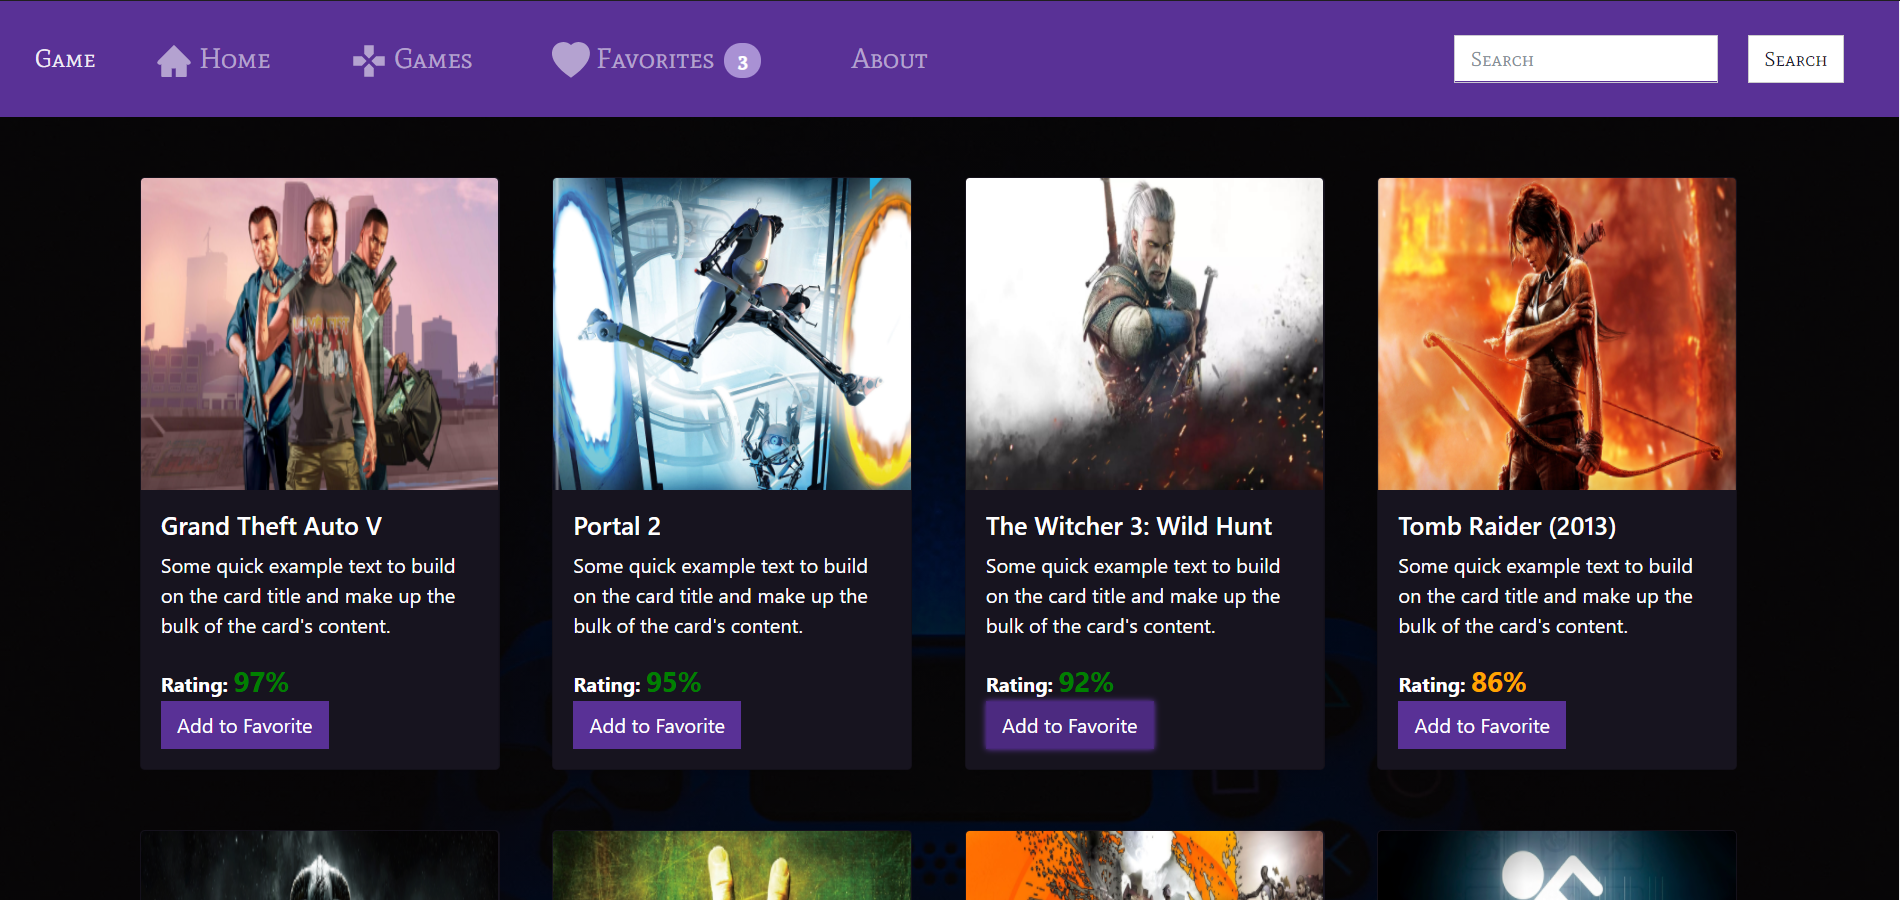
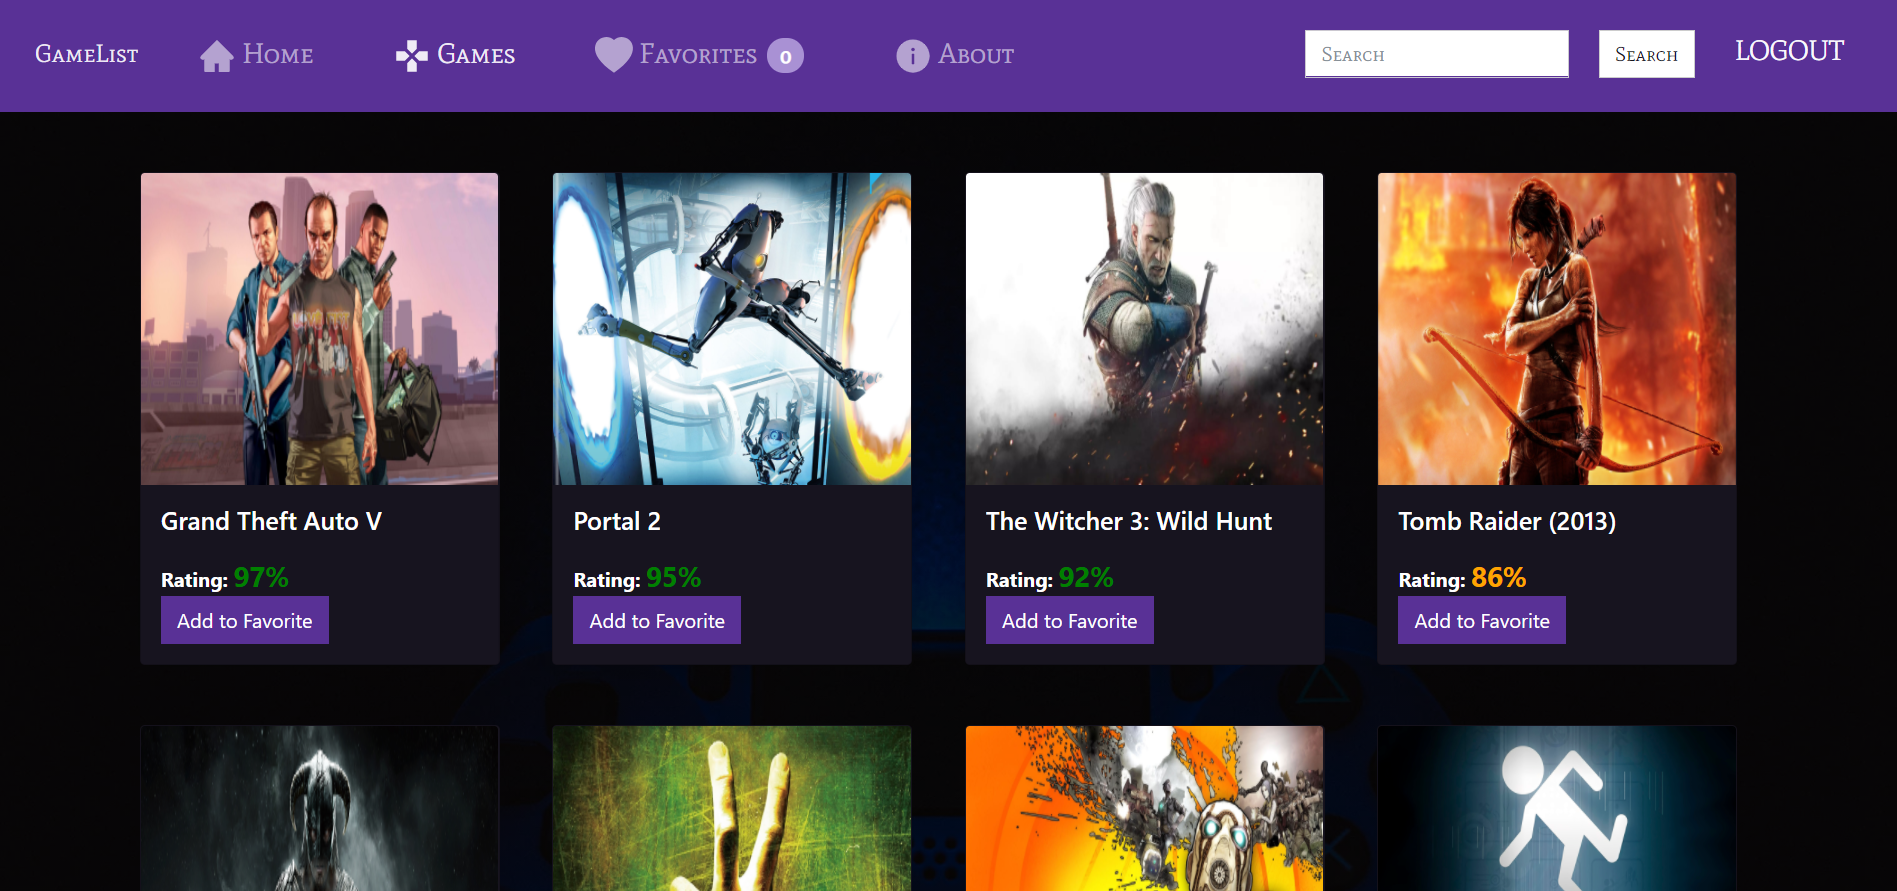
Fix Favs navbar + refactorintg + README

diff --git a/gamelist-func/src/components/About.jsx b/gamelist-func/src/components/About.jsx
@@ -1,19 +1,40 @@
-import React from 'react'
+import React from "react";
 
 export default function About() {
-    return (
-        <div className="container" >
-            <h1 className="display-4 text-center mt-sm-2" style={{ fontFamily: "Mate SC, serif", fontSize: "72px" }}>About Us</h1>
-            <div className="container"> 
-            <p>Lorem ipsum dolor sit amet consectetur adipisicing elit. Eos, atque! Similique molestiae iste blanditiis, sequi atque corrupti numquam aperiam consequatur ratione ipsam adipisci officiis facilis cupiditate mollitia? Vero, earum totam? Lorem ipsum dolor sit amet consectetur, adipisicing elit. Unde eligendi soluta laudantium architecto nisi sed, explicabo officiis cumque illum porro perferendis neque laborum qui nesciunt at dolor suscipit fugiat tempora? Lorem ipsum dolor sit amet consectetur adipisicing elit. Pariatur, tempora quis! Architecto, cumque sit, est deleniti reprehenderit commodi soluta voluptates corrupti ipsum incidunt ipsa alias quidem ipsam fuga. Magni, sequi.
+  return (
+    <div className="container">
+      <h1
+        className="display-4 text-center mt-sm-2"
+        style={{ fontFamily: "Mate SC, serif", fontSize: "72px" }}
+      >
+        About Us
+      </h1>
+      <div className="container">
+        <p>
+          Lorem ipsum dolor sit amet consectetur adipisicing elit. Eos, atque!
+          Similique molestiae iste blanditiis, sequi atque corrupti numquam
+          aperiam consequatur ratione ipsam adipisci officiis facilis cupiditate
+          mollitia? Vero, earum totam? Lorem ipsum dolor sit amet consectetur,
+          adipisicing elit. Unde eligendi soluta laudantium architecto nisi sed,
+          explicabo officiis cumque illum porro perferendis neque laborum qui
+          nesciunt at dolor suscipit fugiat tempora? Lorem ipsum dolor sit amet
+          consectetur adipisicing elit. Pariatur, tempora quis! Architecto,
+          cumque sit, est deleniti reprehenderit commodi soluta voluptates
+          corrupti ipsum incidunt ipsa alias quidem ipsam fuga. Magni, sequi.
+          <br /> <br />
+          Lorem ipsum dolor sit amet consectetur adipisicing elit. Aliquam,
+          dignissimos adipisci? Ullam enim illo tempore quae ad, itaque
+          praesentium, laboriosam sit non officia cumque blanditiis provident
+          molestias vero voluptates ipsa?
+        </p>
 
-                <br /> <br />
-                Lorem ipsum dolor sit amet consectetur adipisicing elit. Aliquam, dignissimos adipisci? Ullam enim illo tempore quae ad, itaque praesentium, laboriosam sit non officia cumque blanditiis provident molestias vero voluptates ipsa?
-            </p>
-
-            <h3><b> CONTACT US: <a href="#">GameList@example.com</a> </b></h3>
-
-            </div>
-        </div>
-    )
+        <h3>
+          <b>
+            {" "}
+            CONTACT US: <a href="#">GameList@example.com</a>{" "}
+          </b>
+        </h3>
+      </div>
+    </div>
+  );
 }

diff --git a/gamelist-func/src/App.js b/gamelist-func/src/App.js
@@ -14,6 +14,8 @@ import { AiFillInfoCircle } from "react-icons/ai";
 import About from "./components/About";
 import FacebookLogin from "react-facebook-login";
 
+
+// APP -> ALLGAMES -> GAMES
 function App() {
   // let games = [
   //   { gameName: "gta", id: 1 },
@@ -29,7 +31,7 @@ function App() {
   const [email, setEmail] = useState("");
 
   const addToFav = (game) => {
-    console.log(game);
+    console.log("zzzzzzzz", game);
     var search = fav.find((e) => game.id == e.id);
     if (search) {
       alert("ALREADY THERE!");
@@ -38,15 +40,11 @@ function App() {
     }
   };
 
-
   const setInfo = (n, t, e) => {
-    console.log('OOOOOOOOO', n);
     setName(n);
     setToken(t);
     setEmail(e);
-  }
-
-
+  };
 
   const removeAll = () => {
     setFav([]);
@@ -105,9 +103,8 @@ function App() {
                       <AiFillInfoCircle size={30} /> About
                     </Link>
                   </li>
-                  
                 </ul>
-                
+
                 <form class="d-flex">
                   <input
                     class="form-control me-sm-2 m-2"
@@ -125,20 +122,22 @@ function App() {
                     </button>
                   </Link>
 
-                    {token? <Link className="nav-link text-light" to="/logout">
-                       LOGOUT
-                    </Link> : null}
-
-
-
-
+                  {token ? (
+                    <Link className="nav-link text-light" to="/logout">
+                      LOGOUT
+                    </Link>
+                  ) : null}
                 </form>
               </div>
             </div>
           </nav>
 
           <Switch>
-            <Route exact path="/" render={() => <HomePage setInfo={setInfo} />} />
+            <Route
+              exact
+              path="/"
+              render={() => <HomePage setInfo={setInfo} />}
+            />
 
             <Route
               exact
@@ -163,7 +162,7 @@ function App() {
               render={() => <Search target={searchInput} addToFav={addToFav} />}
             />
 
-<Route
+            <Route
               path="/logout"
               render={() => <HomePage setInfo={setInfo} />}
             />

diff --git a/gamelist-func/src/components/HomePage.jsx b/gamelist-func/src/components/HomePage.jsx
@@ -7,7 +7,6 @@ export default function HomePage(props) {
   const [token, setToken] = useState("");
   const [email, setEmail] = useState("");
 
-  
   const responseFacebook = (response) => {
     if (localStorage.getItem("token")) {
       setName(response.name);
@@ -19,37 +18,29 @@ export default function HomePage(props) {
   };
 
   useEffect(() => {
-    props.setInfo(name, token, email) 
+    props.setInfo(name, token, email);
     return () => {
       // cleanup
-    }
-  }, [name, token, email])
-
-  
-
-
+    };
+  }, [name, token, email]);
 
   return (
     <div className="container">
-      {token ? <h1 className="display-4">Welcome, {name}</h1> : 
-      <center className="my-3">
-<FacebookLogin
-appId="1947245272097728"
-autoLoad={false}
-fields="name,email,picture"
-callback={responseFacebook}
-textButton="Login"
-icon="fa-facebook"
-width="10px"
-/>
-
-
-</center>}
-
-
-
-
-
+      {token ? (
+        <h1 className="display-4">Welcome, {name}</h1>
+      ) : (
+        <center className="my-3">
+          <FacebookLogin
+            appId="1947245272097728"
+            autoLoad={false}
+            fields="name,email,picture"
+            callback={responseFacebook}
+            textButton="Login"
+            icon="fa-facebook"
+            width="10px"
+          />
+        </center>
+      )}
 
       <Carousel>
         <Carousel.Item>

diff --git a/gamelist-func/src/components/Games.jsx b/gamelist-func/src/components/Games.jsx
@@ -8,26 +8,16 @@ export default function Games(props) {
 
 
   useEffect(() => {
-    console.log("aaaaaaaaaa", favs);
     setGames(props.list);
     
 
     if (prevFavsRef.current) {
       prevFavsRef.current = false;
     } else {
-        console.log("JJJJJJJJJJJJ", favs);
         props.addToFav(favs);
     }
 
   }, [favs]);
-
-
-
-  // useEffect(() => {
-  //   console.log("JJJJJJJJJJJJ", favs);
-    // props.addToFav(favs);
-  // }, [favs])
-
 
 
   const addFav = (game) => {

diff --git a/gamelist-func/src/components/AllGames.jsx b/gamelist-func/src/components/AllGames.jsx
@@ -33,7 +33,6 @@ export default function AllGames(props) {
 
   
   const addToFav = (game) => {
-    console.log("TEST");
     props.addToFav(game);
   }
 

diff --git a/README.md b/README.md
@@ -10,19 +10,16 @@ Built using:
 	 - [x] UseState
 	 - [x] UseEffect
 	 - [x] UseRef
- - [x] Bootstrap
- - [x] Axios
- - [x] Third-party-Authentication
+ - [x] Bootstrap.
+ - [x] Axios.
+ - [x] Search-bar.
+ - [x] Third-party-Authentication (Using Facebook).
 
 ## DEMO PICTURE:
 ![demo1](./demo0.png)
 
-## DEMO Gif Showcase:
+## DEMO Gif Showcase (3rd party Authentication):
 ![demo1](./demo1.gif)
-
-## DEMO Gif Search:
-![demo1](./demo2.gif)
-
 
 
 ### <b> Student:</b>  Mohammed Rashed Albalawi.
